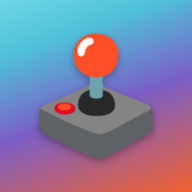
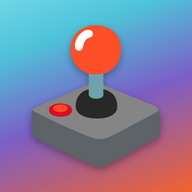
Sfumatura della home che non si ripete piu', icona dal file svg e nota offline riscritta
Lo sfondo della home ricominciava da capo a ogni schermata: l'altezza fissa
al 100% stava anche sul body, che quindi era alto quanto la finestra pur
contenendo una pagina piu' lunga, e lo sfondo del body — non avendone uno
html — veniva promosso a sfondo della pagina e disegnato su quel riquadro,
ripetendosi. Ora l'altezza fissa e' solo su html (che ha una tinta piena di
riserva) e il body cresce con il contenuto: la sfumatura si vede una volta
sola, dal turchese in cima all'arancio sotto al piede di pagina.

L'icona del sito e' rigenerata dal joystick vettoriale (icons/joystick.svg),
piu' pulito della versione di prima a tutte le misure.

La riga sotto al sottotitolo diceva "apri il gioco con la connessione", che
sembrava un obbligo: ora dice che si PUO' giocare anche senza internet.

Changed region(s): [[0.1562, 0.125, 0.8438, 0.9062], [0.4688, 0.5, 0.5, 0.5312]]

diff --git a/index.html b/index.html
@@ -17,11 +17,23 @@
 <link href="https://fonts.googleapis.com/css2?family=Baloo+2:wght@600;700;800&family=Nunito:wght@400;600;700;800&display=swap" rel="stylesheet">
 <style>
   *{ box-sizing:border-box; -webkit-tap-highlight-color:transparent; }
-  html,body{ height:100%; }
+  /* NB: l'altezza fissa sta solo su html. Se ce l'ha anche il body, il body è
+     alto quanto la finestra pur contenendo una pagina più lunga, e la sfumatura
+     — che si disegna sul suo riquadro — finisce a metà pagina. Con min-height
+     il body cresce fino a contenere tutto. */
+  html{ height:100%; }
+  /* Lo sfondo del body, se l'elemento html non ne ha uno, viene "promosso" a
+     sfondo della pagina intera e disegnato alto quanto la FINESTRA, non quanto
+     il documento: con più giochi in elenco la pagina diventa più lunga di uno
+     schermo e la sfumatura ricominciava da capo a ogni schermata.
+     Dando una tinta piena a html la promozione non avviene più: la sfumatura
+     resta sul body, che è alto quanto tutto il contenuto, e si vede una volta
+     sola dal turchese in cima all'arancio in fondo. */
+  html{ background: #4FC3D9; }
   body{
     margin:0; min-height:100%;
     font-family:'Nunito', sans-serif;
-    background: linear-gradient(160deg, #6FD6E8 0%, #4FC3D9 22%, #7B5FC7 55%, #F2622E 100%);
+    background: linear-gradient(160deg, #6FD6E8 0%, #4FC3D9 22%, #7B5FC7 55%, #F2622E 100%) no-repeat;
     color: #FFFDF8;
     overflow-x:hidden;
   }
@@ -300,7 +312,7 @@
       <div class="logo">🕹</div>
       <h1>Free For Real</h1>
       <p data-i18n="tagline">Giochi gratis. Per davvero.</p>
-      <p class="offline-note" data-i18n="offlineNote">📶 Apri il gioco con la connessione: da lì in poi puoi giocare anche senza internet.</p>
+      <p class="offline-note" data-i18n="offlineNote">📶 Si può giocare anche senza internet: basta aver aperto il gioco una volta con la connessione.</p>
     </header>
 
     <div class="games">
@@ -382,7 +394,7 @@ const LANGUAGES = {
 const HOME_STRINGS = {
   it: {
     tagline: 'Giochi gratis. Per davvero.',
-    offlineNote: '📶 Apri il gioco con la connessione: da lì in poi puoi giocare anche senza internet.',
+    offlineNote: '📶 Si può giocare anche senza internet: basta aver aperto il gioco una volta con la connessione.',
     wordioDesc: 'Componi tutte le parole usando le lettere sulla ruota. Italiano, inglese, francese.',
     blokkoDesc: 'Incastra i blocchi che cadono prima che si accumulino troppo.',
     boingDesc: 'Rompi tutti i mattoncini rimbalzando la pallina col paddle. 3 vite, potenziamenti e 3 livelli di difficoltà.',
@@ -398,7 +410,7 @@ const HOME_STRINGS = {
   },
   en: {
     tagline: 'Free games. For real.',
-    offlineNote: '📶 Open a game while you are online: from then on you can keep playing with no connection.',
+    offlineNote: '📶 You can play offline too: just open the game once while you are online.',
     wordioDesc: 'Spell out every word using the letters on a wheel. Italian, English, French.',
     blokkoDesc: 'Clear the falling blocks before they stack up.',
     boingDesc: 'Bounce the ball off your paddle to clear every brick. 3 lives, power-ups, and 3 difficulty levels.',
@@ -414,7 +426,7 @@ const HOME_STRINGS = {
   },
   fr: {
     tagline: 'Jeux gratuits. Pour de vrai.',
-    offlineNote: '📶 Ouvre le jeu avec la connexion : ensuite tu peux jouer même sans internet.',
+    offlineNote: '📶 Tu peux aussi jouer hors ligne : il suffit d'avoir ouvert le jeu une fois avec la connexion.',
     wordioDesc: "Compose tous les mots avec les lettres sur la roue. Italien, anglais, français.",
     blokkoDesc: "Range les blocs qui tombent avant qu'ils ne s'accumulent.",
     boingDesc: 'Casse toutes les briques en faisant rebondir la balle sur ta raquette. 3 vies, bonus et 3 niveaux de difficulté.',
